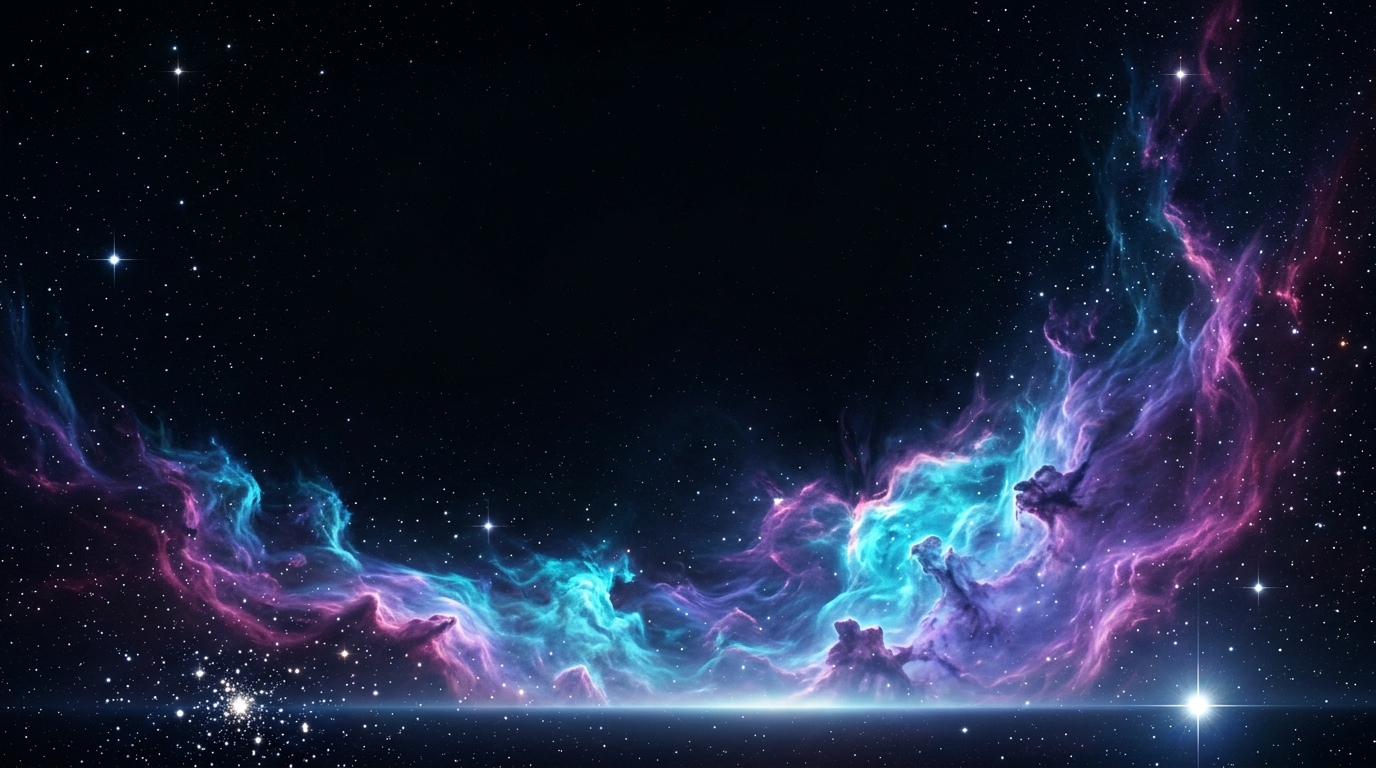
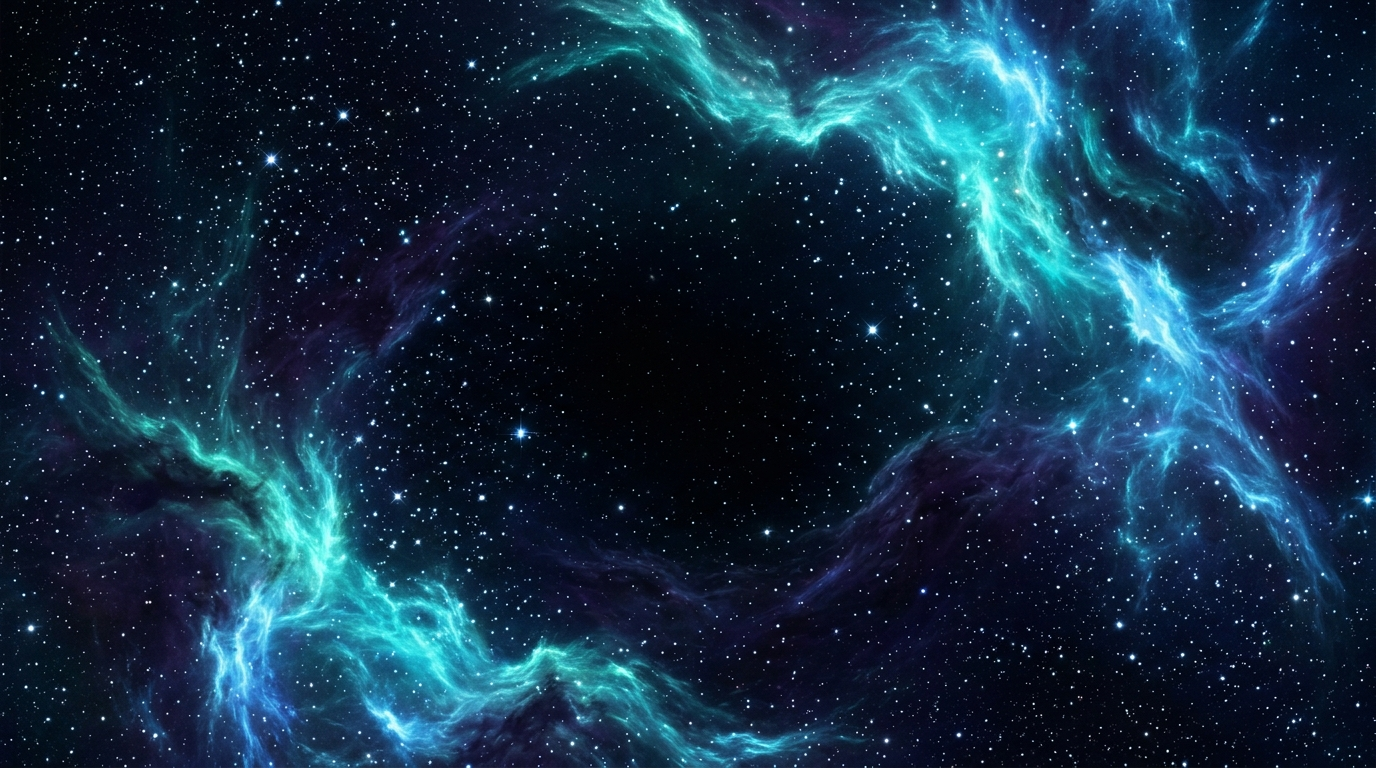
feat: improve intro transition, single letter sweep reveal, calm background animation and tailored cosmic space background

diff --git a/css/portal-glass.css b/css/portal-glass.css
@@ -309,12 +309,13 @@ button:disabled {
 
 .hero-title-ink {
   display: inline-block;
-  background: linear-gradient(110deg, #dcfce7 0%, #ffffff 22%, #38bdf8 42%, #ffffff 50%, #c084fc 62%, #a7ead8 80%, #dcfce7 100%);
-  background-size: 260% 100%;
+  color: #ffffff;
+  background: linear-gradient(90deg, #e2e8f0 0%, #ffffff 35%, #bae6fd 50%, #ffffff 65%, #e2e8f0 100%);
+  background-size: 200% 100%;
   -webkit-background-clip: text;
   -webkit-text-fill-color: transparent;
-  animation: textShineSweep 7s ease-in-out infinite;
-  filter: drop-shadow(0 0 34px rgba(56, 189, 248, 0.35));
+  filter: drop-shadow(0 4px 20px rgba(0, 0, 0, 0.9)) drop-shadow(0 0 28px rgba(186, 230, 253, 0.3));
+  animation: letterSweepReveal 1.3s cubic-bezier(0.16, 1, 0.3, 1) forwards;
 }
 
 .hero-streaming-wrap {
@@ -332,24 +333,23 @@ button:disabled {
   font-size: clamp(22px, 3.6vw, 42px);
   letter-spacing: 0.42em;
   text-transform: uppercase;
-  color: #b9e7e3;
-  background: linear-gradient(110deg, #93c5fd 0%, #ffffff 25%, #a7ead8 48%, #ffffff 56%, #38bdf8 72%, #ffffff 88%, #93c5fd 100%);
-  background-size: 260% 100%;
+  color: #f1f5f9;
+  background: linear-gradient(90deg, #cbd5e1 0%, #ffffff 40%, #bae6fd 50%, #ffffff 60%, #cbd5e1 100%);
+  background-size: 200% 100%;
   -webkit-background-clip: text;
   -webkit-text-fill-color: transparent;
-  animation: textShineSweep 7s ease-in-out 1s infinite;
-  filter: drop-shadow(0 0 22px rgba(167, 234, 216, 0.4));
+  filter: drop-shadow(0 2px 14px rgba(0, 0, 0, 0.8)) drop-shadow(0 0 18px rgba(186, 230, 253, 0.25));
+  animation: letterSweepReveal 1.3s cubic-bezier(0.16, 1, 0.3, 1) 0.2s forwards;
 }
 
 .hero-streaming-glow-line {
   display: block;
-  width: 160px;
+  width: 140px;
   height: 2px;
   margin: 18px auto 0;
-  background: linear-gradient(90deg, transparent, #a7ead8, #38bdf8, transparent);
+  background: linear-gradient(90deg, transparent, rgba(186, 230, 253, 0.6), transparent);
   border-radius: 2px;
-  box-shadow: 0 0 14px #a7ead8;
-  animation: glowLinePulse 4s ease-in-out infinite alternate;
+  box-shadow: 0 0 10px rgba(186, 230, 253, 0.4);
 }
 
 /* Elementos editoriales y CTA */
@@ -414,24 +414,29 @@ button:disabled {
 }
 
 /* ==========================================================================
-   ANIMACIONES CLAVE: DERIVA ESPACIAL, BARRIDA Y PULSOS
+   ANIMACIONES CLAVE: DERIVA ESPACIAL TRANQUILA Y BARRIDA ÚNICA DE LETRAS
    ========================================================================== */
 
 @keyframes spaceBackdropDrift {
-  0% { transform: scale(1) translate3d(0, 0, 0); filter: brightness(1) contrast(1.04); }
-  50% { transform: scale(1.08) translate3d(-1.8%, 1.2%, 0); filter: brightness(1.14) contrast(1.1) hue-rotate(5deg); }
-  100% { transform: scale(1.14) translate3d(1.5%, -1.2%, 0); filter: brightness(1.02) contrast(1.05); }
+  0% { transform: scale(1) translate3d(0, 0, 0); }
+  50% { transform: scale(1.03) translate3d(-0.6%, 0.5%, 0); }
+  100% { transform: scale(1.05) translate3d(0.5%, -0.4%, 0); }
 }
 
-@keyframes auroraDrift {
-  0% { transform: scale(1) rotate(0deg); opacity: 0.65; }
-  50% { transform: scale(1.12) rotate(4deg); opacity: 0.95; }
-  100% { transform: scale(1.04) rotate(-3deg); opacity: 0.72; }
-}
-
-@keyframes textShineSweep {
-  0%, 15% { background-position: 220% 0; }
-  85%, 100% { background-position: -220% 0; }
+@keyframes letterSweepReveal {
+  0% {
+    opacity: 0;
+    transform: translateY(14px);
+    background-position: 180% 0;
+  }
+  40% {
+    opacity: 1;
+  }
+  100% {
+    opacity: 1;
+    transform: translateY(0);
+    background-position: -80% 0;
+  }
 }
 
 @keyframes glowLinePulse {
@@ -609,18 +614,18 @@ html.intro-dismissed #intro {
   z-index: 3;
 }
 
-/* Efecto Warp Profesional al Salir */
+/* Efecto Fluido y Sin Congelamiento al Salir */
 #intro.leaving {
-  animation: portalFadeOut 0.65s cubic-bezier(0.16, 1, 0.3, 1) forwards;
+  animation: portalFadeOut 0.42s ease-out forwards;
   pointer-events: none;
 }
 
 .leaving .portal-lens {
-  animation: lensWarpPass 0.65s cubic-bezier(0.16, 1, 0.3, 1) forwards;
+  animation: lensWarpPass 0.42s cubic-bezier(0.2, 0.8, 0.2, 1) forwards;
 }
 
 .leaving .portal-wordmark {
-  animation: wordFadeAway 0.35s ease-in forwards;
+  animation: wordFadeAway 0.25s ease-out forwards;
 }
 
 .leaving .intro-skip {
@@ -628,30 +633,30 @@ html.intro-dismissed #intro {
   transition: opacity 0.15s;
 }
 
-/* Revelación elegante del universo al llegar */
+/* Revelación elegante y ligera del contenido principal al llegar */
 .arrival #main,
 .arrival .header {
   visibility: visible !important;
   opacity: 1 !important;
-  animation: universeReveal 0.75s cubic-bezier(0.16, 1, 0.3, 1) both;
+  animation: universeReveal 0.48s ease-out both;
 }
 
 .arrival .hero-giant-orbita {
-  animation: heroTitleArrive 900ms cubic-bezier(0.16, 1, 0.3, 1) 120ms both;
+  animation: heroTitleArrive 700ms cubic-bezier(0.16, 1, 0.3, 1) 80ms both;
 }
 
 .arrival .hero-giant-streaming {
-  animation: heroTitleArrive 900ms cubic-bezier(0.16, 1, 0.3, 1) 240ms both;
+  animation: heroTitleArrive 700ms cubic-bezier(0.16, 1, 0.3, 1) 180ms both;
 }
 
 @keyframes lens-trace { to { stroke-dashoffset: 0; } }
 @keyframes lens-arrive { from { opacity: 0; transform: scale(0.82) rotate(-12deg); } to { opacity: 1; transform: scale(1) rotate(0); } }
-@keyframes lensWarpPass { from { transform: scale(1); opacity: 1; } to { transform: scale(3.5); opacity: 0; filter: blur(12px); } }
+@keyframes lensWarpPass { from { transform: scale(1); opacity: 1; } to { transform: scale(1.18); opacity: 0; } }
 @keyframes portal-word { from { opacity: 0; transform: translateY(8px); } to { opacity: 1; transform: translateY(0); } }
-@keyframes wordFadeAway { to { opacity: 0; transform: scale(1.08); filter: blur(4px); } }
+@keyframes wordFadeAway { to { opacity: 0; transform: translateY(-8px); } }
 @keyframes portalFadeOut { 0% { opacity: 1; } 100% { opacity: 0; } }
-@keyframes universeReveal { from { opacity: 0; transform: scale(1.04); filter: blur(6px); } to { opacity: 1; transform: scale(1); filter: blur(0); } }
-@keyframes heroTitleArrive { from { transform: translateY(24px); opacity: 0; } to { transform: translateY(0); opacity: 1; } }
+@keyframes universeReveal { from { opacity: 0; transform: translateY(6px); } to { opacity: 1; transform: translateY(0); } }
+@keyframes heroTitleArrive { from { transform: translateY(18px); opacity: 0; } to { transform: translateY(0); opacity: 1; } }
 
 /* ==========================================================================
    FONDO ELEGANTE Y LIVIANO PARA LAS DEMÁS SECCIONES

diff --git a/js/hero-cosmos.js b/js/hero-cosmos.js
@@ -20,24 +20,22 @@
     let height = 0;
     let dpr = 1;
 
-    // 1. Nebulosas volumétricas vivas (Living Cosmic Nebulae)
+    // 1. Nebulosas volumétricas sutiles y estables (sin saturación ni parpadeos bruscos)
     const nebulae = [
-      { xRatio: 0.25, yRatio: 0.35, baseRadius: 320, colorStop0: 'rgba(56, 189, 248, 0.18)', colorStop1: 'rgba(14, 116, 144, 0.08)', speed: 0.45, phase: 0 },
-      { xRatio: 0.72, yRatio: 0.42, baseRadius: 360, colorStop0: 'rgba(168, 85, 247, 0.16)', colorStop1: 'rgba(109, 40, 217, 0.06)', speed: 0.35, phase: 2.1 },
-      { xRatio: 0.50, yRatio: 0.28, baseRadius: 280, colorStop0: 'rgba(45, 212, 191, 0.15)', colorStop1: 'rgba(15, 118, 110, 0.05)', speed: 0.55, phase: 4.3 },
-      { xRatio: 0.85, yRatio: 0.65, baseRadius: 300, colorStop0: 'rgba(99, 102, 241, 0.14)', colorStop1: 'rgba(67, 56, 202, 0.05)', speed: 0.40, phase: 1.5 }
+      { xRatio: 0.25, yRatio: 0.35, baseRadius: 320, colorStop0: 'rgba(56, 189, 248, 0.07)', colorStop1: 'rgba(14, 116, 144, 0.02)', speed: 0.12, phase: 0 },
+      { xRatio: 0.72, yRatio: 0.42, baseRadius: 360, colorStop0: 'rgba(168, 85, 247, 0.06)', colorStop1: 'rgba(109, 40, 217, 0.015)', speed: 0.10, phase: 2.1 },
+      { xRatio: 0.50, yRatio: 0.28, baseRadius: 280, colorStop0: 'rgba(45, 212, 191, 0.05)', colorStop1: 'rgba(15, 118, 110, 0.01)', speed: 0.14, phase: 4.3 }
     ];
 
-    // 2. Estrellas titilantes multicapa con deriva lenta
+    // 2. Estrellas con brillo sutil y parpadeo sereno
     let stars = [];
-    const STAR_COUNT = window.innerWidth < 768 ? 80 : 190;
+    const STAR_COUNT = window.innerWidth < 768 ? 60 : 120;
 
     const STAR_COLORS = [
       'rgba(255, 255, 255, ',
-      'rgba(167, 234, 216, ', // Cian brillante
-      'rgba(56, 189, 248, ',  // Azul eléctrico
-      'rgba(192, 132, 252, ', // Violeta
-      'rgba(253, 230, 138, '  // Destello estelar cálido
+      'rgba(186, 230, 253, ', // Azul hielo suave
+      'rgba(167, 234, 216, ', // Cian delicado
+      'rgba(241, 245, 249, '  // Blanco platino
     ];
 
     function createStars() {
@@ -47,44 +45,44 @@
         stars.push({
           x: Math.random() * width,
           y: Math.random() * height,
-          vx: (Math.random() - 0.5) * 0.08,
-          vy: -0.02 - Math.random() * 0.05,
-          size: (0.7 + depth * 1.5) * (window.innerWidth < 768 ? 0.85 : 1.0),
-          baseAlpha: 0.25 + depth * 0.65,
-          twinkleSpeed: 0.9 + Math.random() * 2.4,
+          vx: (Math.random() - 0.5) * 0.02,
+          vy: -0.008 - Math.random() * 0.015,
+          size: (0.6 + depth * 1.1) * (window.innerWidth < 768 ? 0.8 : 1.0),
+          baseAlpha: 0.2 + depth * 0.45,
+          twinkleSpeed: 0.4 + Math.random() * 1.1,
           phase: Math.random() * Math.PI * 2,
           color: STAR_COLORS[Math.floor(Math.random() * STAR_COLORS.length)],
-          hasCrossGlint: depth > 0.82
+          hasCrossGlint: depth > 0.92
         });
       }
     }
 
-    // 3. Meteoros / Estrellas fugaces cinematográficas
+    // 3. Meteoros / Estrellas fugaces ocasionales y delicadas
     let shootingStars = [];
     let lastSpawnTime = performance.now();
 
     function spawnShootingStar() {
-      if (shootingStars.length >= 3) return;
+      if (shootingStars.length >= 1) return;
       const angle = (28 + Math.random() * 22) * (Math.PI / 180);
-      const speed = 15 + Math.random() * 12;
-      const length = 140 + Math.random() * 150;
+      const speed = 12 + Math.random() * 8;
+      const length = 110 + Math.random() * 90;
 
       shootingStars.push({
-        x: Math.random() * (width * 0.9),
-        y: Math.random() * (height * 0.45),
+        x: Math.random() * (width * 0.85),
+        y: Math.random() * (height * 0.35),
         vx: Math.cos(angle) * speed,
         vy: Math.sin(angle) * speed,
         length: length,
         life: 0,
-        maxLife: 42 + Math.random() * 28,
-        width: 1.3 + Math.random() * 1.5,
-        color: Math.random() > 0.4 ? '#a7ead8' : '#38bdf8'
+        maxLife: 35 + Math.random() * 20,
+        width: 1.0 + Math.random() * 0.8,
+        color: '#bae6fd'
       });
     }
 
-    // 4. Polvo cósmico bioluminiscente
+    // 4. Polvo cósmico sereno
     let stardust = [];
-    const DUST_COUNT = window.innerWidth < 768 ? 25 : 55;
+    const DUST_COUNT = window.innerWidth < 768 ? 15 : 30;
 
     function createStardust() {
       stardust = [];
@@ -92,10 +90,10 @@
         stardust.push({
           x: Math.random() * width,
           y: Math.random() * height,
-          vx: (Math.random() - 0.5) * 0.4,
-          vy: (Math.random() - 0.5) * 0.4,
-          radius: 0.9 + Math.random() * 2.2,
-          alpha: 0.2 + Math.random() * 0.5,
+          vx: (Math.random() - 0.5) * 0.12,
+          vy: (Math.random() - 0.5) * 0.12,
+          radius: 0.7 + Math.random() * 1.4,
+          alpha: 0.15 + Math.random() * 0.25,
           phase: Math.random() * Math.PI * 2
         });
       }
@@ -250,8 +248,8 @@
         ctx.fill();
       }
 
-      // D) GESTIONAR Y DIBUJAR METEOROS / ESTRELLAS FUGACES
-      if (now - lastSpawnTime > 1800 + Math.random() * 2200) {
+      // D) GESTIONAR Y DIBUJAR METEOROS / ESTRELLAS FUGACES (ocasionales y elegantes)
+      if (now - lastSpawnTime > 8000 + Math.random() * 6000) {
         spawnShootingStar();
         lastSpawnTime = now;
       }

diff --git a/js/portal.js b/js/portal.js
@@ -25,8 +25,8 @@
     if (immediate || reduce.matches) return finish();
     if (intro.classList.contains('leaving')) return;
     intro.classList.add('leaving');
-    // Start the letter reveal only after the opaque portal has cleared.
-    hideTimer = setTimeout(finish, 650);
+    // Start main arrival smoothly without blocking frames
+    hideTimer = setTimeout(finish, 420);
   }
   function play({automatic = false} = {}) {
     if (automatic) {
